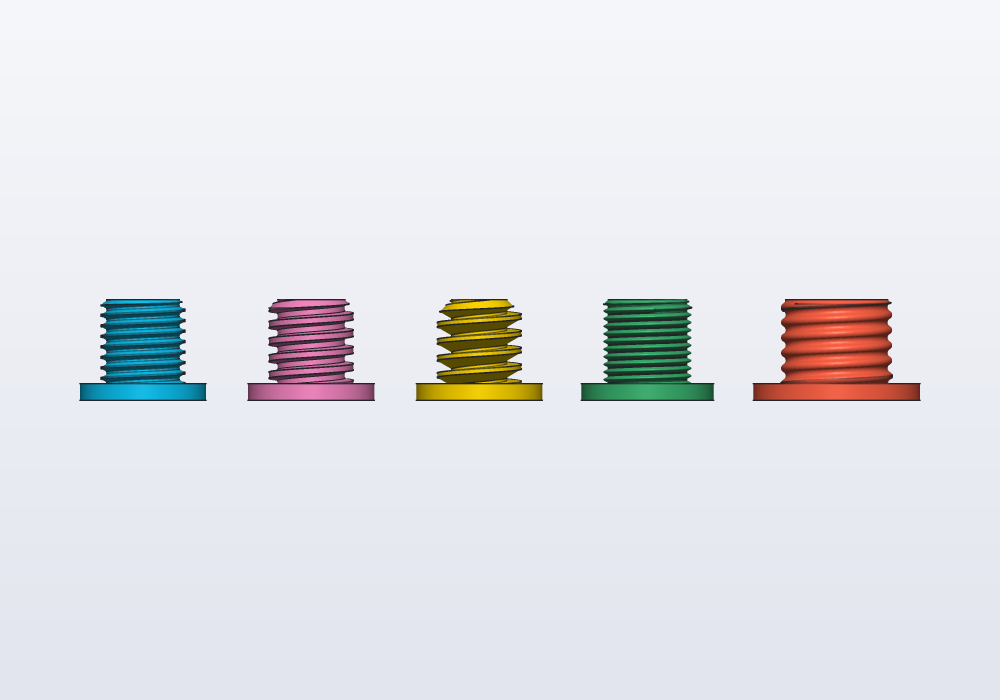
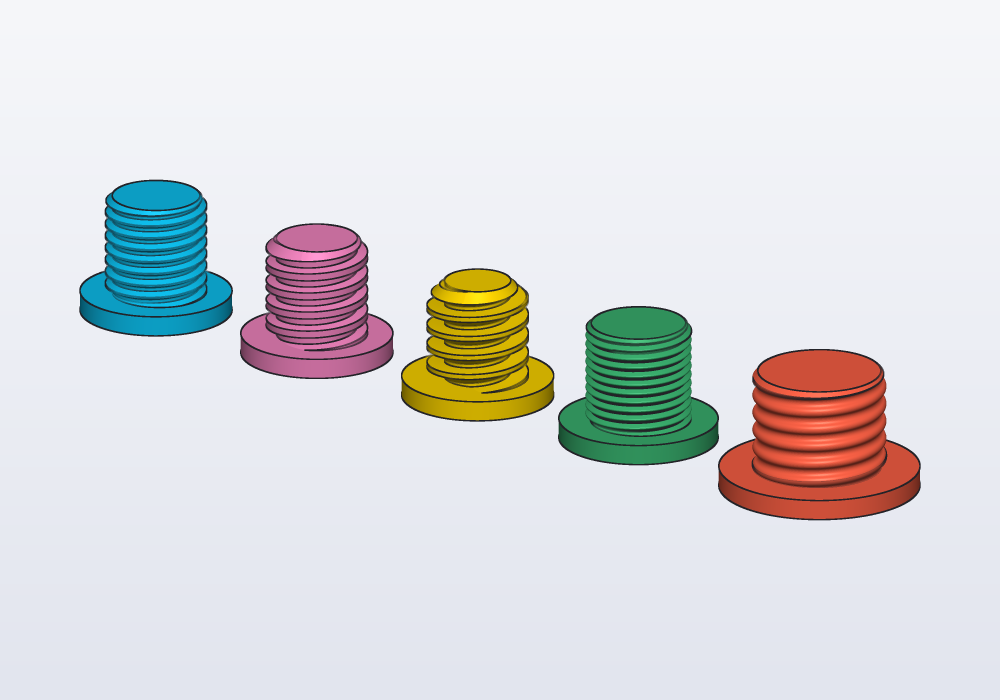
The guides' covers: a picture of each topic chosen among its examples, the threads seen at an angle

Changed region(s): [[0.062, 0.24, 0.93, 0.75]]

diff --git a/docs/GUIDES.md b/docs/GUIDES.md
@@ -4,85 +4,85 @@ One page for each topic: what it does, shown on examples, every parameter, the u
 
 ### [Constrained sketches](guides/sketches.md)
 
-[<img src="guides/img/sketches-cover.png" width="420" alt="Constrained sketches">](guides/sketches.md)
+[<img src="guides/img/sketches-flange.png" width="420" alt="Constrained sketches">](guides/sketches.md)
 
 A sketch is a flat outline drawn from points, lines, arcs, circles, ellipses, splines and ready-made shapes, held in place by constraints (rules such as "this line is level" or "these two points are 30 mm apart"), then extruded (pushed up into a solid), revolved (turned round an axis) or cut into a part. This guide covers `sketch()`, every constraint, construction geometry, degrees of freedom and their warning, reading the solved sketch back, sketches on the faces of a solid, where a sketch beats shapes added together, and the sketch bar of the application.
 
 ### [From profile to solid](guides/profiles.md)
 
-[<img src="guides/img/profiles-cover.png" width="420" alt="From profile to solid">](guides/profiles.md)
+[<img src="guides/img/profiles-extrude.png" width="420" alt="From profile to solid">](guides/profiles.md)
 
 A profile is a flat outline; a solid is made from it by extruding it (pushing it up into a block of the same outline), revolving it (turning it round an axis, as on a lathe) or adding and cutting it on a face of another solid. This guide covers the profile shapes (rectangles, circles, polygons, slots, teardrops, text, SVG and DXF drawings), how they combine (`+ - &`, offset, round), extruding them (taper, twist, shear, along X or Y, symmetric), revolving them, standing them up with `across`, adding or cutting them on a face of a solid, and pushing or sinking the faces themselves.
 
 ### [Paths, sweeps and lofts](guides/sweeps.md)
 
-[<img src="guides/img/sweeps-cover.png" width="420" alt="Paths, sweeps and lofts">](guides/sweeps.md)
+[<img src="guides/img/sweeps-paths.png" width="420" alt="Paths, sweeps and lofts">](guides/sweeps.md)
 
 Shapes that follow a curve or change along their length: paths (straight, bent, splines, helices, from a sketch, from a solid's edges, from two views), sweeping a profile along a path and deciding how it rolls on the way (`up:`, `guide:`, `twist:`, `frenet:`), and lofting between profiles.
 
 ### [Surfaces](guides/surfaces.md)
 
-[<img src="guides/img/surfaces-cover.png" width="420" alt="Surfaces">](guides/surfaces.md)
+[<img src="guides/img/surfaces-tube-halves.png" width="420" alt="Surfaces">](guides/surfaces.md)
 
 Open sheets with no inside: how to make one (an open curve swept along a path, a loft through paths), and what to do with it: split a solid along a curved cut, thicken it into a shell, sew several into a closed solid, push the pieces apart. Typical workflows, the limits, and the errors.
 
 ### [Planes, frames and placement](guides/planes.md)
 
-[<img src="guides/img/planes-cover.png" width="420" alt="Planes, frames and placement">](guides/planes.md)
+[<img src="guides/img/planes-place-on.png" width="420" alt="Planes, frames and placement">](guides/planes.md)
 
 Where things go. A plane is a flat surface without end, given by a point and the direction it faces; a frame is a place to build from, a point with its own three axes. This guide covers the three main planes XY, XZ and YZ (and which way each faces), planes of every other kind (through points, on a face, halfway between two faces, moved off another), frames to build on a face, placing parts on faces and next to each other, axes, sketching on a plane, and the planes shown in the 3D view with the menus that write them.
 
 ### [Selectors and features](guides/features.md)
 
-[<img src="guides/img/features-cover.png" width="420" alt="Selectors and features">](guides/features.md)
+[<img src="guides/img/features-four.png" width="420" alt="Selectors and features">](guides/features.md)
 
 Rounding, bevelling, hollowing and tapering a solid: `fillet`, `chamfer`, `shell` and `draft`, and the selectors that say which edges and faces they work on (`edges.parallel(Z)`, `faces.top`, `edges.between(…)`, `faces.from(tool)`). How to pick edges so that they stay the right ones when a parameter changes, in which order to apply the features, what their errors mean, and how to do the same with the mouse in the 3D view.
 
 ### [Patterns, textures and noise](guides/patterns.md)
 
-[<img src="guides/img/patterns-cover.png" width="420" alt="Patterns, textures and noise">](guides/patterns.md)
+[<img src="guides/img/patterns-four.png" width="420" alt="Patterns, textures and noise">](guides/patterns.md)
 
 Many copies of one thing: a row, a ring, a grid, a mirror image; layouts the plain patterns cannot make, written as loops; surfaces with a texture, ribbed or bumpy, from `noise`, `loopNoise` and `loft` through rings of points; how to keep them quick to evaluate, and when a pattern belongs in a library.
 
 ### [Threads](guides/threads.md)
 
-[<img src="guides/img/threads-cover.png" width="420" alt="Threads">](guides/threads.md)
+[<img src="guides/img/threads-profiles.png" width="420" alt="Threads">](guides/threads.md)
 
 A real helical thread on a shaft or in a hole: ISO metric, inch, trapezoidal and ACME, buttress, pipe threads, lamp bases, bottle necks. How to recognise one on a real object, every parameter, and how to print it.
 
 ### [Holes and hardware](guides/holes.md)
 
-[<img src="guides/img/holes-cover.png" width="420" alt="Holes and hardware">](guides/holes.md)
+[<img src="guides/img/holes-kinds.png" width="420" alt="Holes and hardware">](guides/holes.md)
 
 Holes for metric screws from M2 to M8, from the `hardware` library: clearance, tapping, heat-set insert, counterbore and countersink holes with `hole()`, nut traps, the screws, nuts and washers themselves, teardrop holes that print sideways, and the Hole entry of the 3D view's right-click menu.
 
 ### [Fits and printing](guides/fits.md)
 
-[<img src="guides/img/fits-cover.png" width="420" alt="Fits and printing">](guides/fits.md)
+[<img src="guides/img/fits-snap.png" width="420" alt="Fits and printing">](guides/fits.md)
 
 How much play to leave between parts that slide, press or turn together, printed or machined; how to test a fit in a `unittest` before printing; snap hooks and print-in-place hinges from the `snaps` and `hinges` libraries; and how to make a part print well: overhangs, thin walls, which way up it lies.
 
 ### [Gears](guides/gears.md)
 
-[<img src="guides/img/gears-cover.png" width="420" alt="Gears">](guides/gears.md)
+[<img src="guides/img/gears-hub.png" width="420" alt="Gears">](guides/gears.md)
 
 Spur gears and racks from the `gears` library: module, number of teeth and pressure angle, placing two gears so that they mesh, checking the mesh in the model, and printing gears that turn (backlash, the module for a printer, hubs, bores and set screws).
 
 ### [Enclosures and boxes](guides/enclosures.md)
 
-[<img src="guides/img/enclosures-cover.png" width="420" alt="Enclosures and boxes">](guides/enclosures.md)
+[<img src="guides/img/enclosures-pcb.png" width="420" alt="Enclosures and boxes">](guides/enclosures.md)
 
 Boxes, trays and cases with lids: the `enclosures` library (`roundedBox`, `tray`, `enclosure(…).base` and `.lid`) and every option of it, boxes hollowed with `shell()` or cut in two, screw bosses, ventilation slots and holes, and a worked example of a case for a circuit board.
 
 ### [Parameters, presets and checks](guides/parameters.md)
 
-[<img src="guides/img/parameters-cover.png" width="420" alt="Parameters, presets and checks">](guides/parameters.md)
+[<img src="guides/img/parameters-carlo.png" width="420" alt="Parameters, presets and checks">](guides/parameters.md)
 
 The sizes you may want to change, made parameters with `@param` (limits, steps, a list of choices) and grouped into named presets with `@preset`; units and the mistakes they catch, and the few they do not; design checks in `unittest` blocks with `assert`; measuring a model (its size, volume, weight, distances) and printing values with `writeln`; and changing parameters from the Parameters panel and the command line (`-D`, `--preset`).
 
 ### [Parts, export and drawings](guides/parts.md)
 
-[<img src="guides/img/parts-cover.png" width="420" alt="Parts, export and drawings">](guides/parts.md)
+[<img src="guides/img/parts-pieces.png" width="420" alt="Parts, export and drawings">](guides/parts.md)
 
 What becomes a separate object when a model is exported: `@part` and its options (colour, see-through, reference parts, names), `@parts` for the pieces of a cut, colours, the export formats (3MF, STL, zip, STEP, PNG) and what each holds, technical drawings with `@drawing`, and the Export menu of the application.
 

diff --git a/docs/guides/threads.md b/docs/guides/threads.md
@@ -2,15 +2,7 @@
 
 A real helical thread on a shaft or in a hole: ISO metric, inch, trapezoidal and ACME, buttress, pipe threads, lamp bases, bottle necks. How to recognise one on a real object, every parameter, and how to print it.
 
-<!-- render: threads-cover -->
-```d
-// a shaft with an M10 thread cut on its face
-@part("Sky Pop")
-Solid bolt() => cylinder(d: 10.mm, h: 20.mm)
-    .thread(faces.largest, "M10");
-```
-
-![A shaft with an M10 thread](img/threads-cover.png)
+![Five thread profiles side by side](img/threads-profiles.png)
 
 A *thread* is the spiral ridge that lets a screw turn into a nut. Its *pitch* is the distance from one ridge to the next, measured along the axis; the *crests* are the tops of the ridges. A male thread is outside a shaft (a bolt), a female one inside a hole (a nut).
 
@@ -37,7 +29,7 @@ The rule of thumb: water or air goes through it, a pipe thread (G, R, NPT); it h
 
 The teeth differ in shape (their *profile*: the outline of one tooth cut along the axis). Side by side, the same 20 mm shaft cut with five of them:
 
-<!-- render: threads-profiles --from front -->
+<!-- render: threads-profiles --from 1,-1.3,0.6 -->
 ```d
 // one shaft per family, each with the thread's own
 // profile

diff --git a/docs/guides/sketches.md b/docs/guides/sketches.md
@@ -2,25 +2,7 @@
 
 A sketch is a flat outline drawn from points, lines, arcs, circles, ellipses, splines and ready-made shapes, held in place by constraints (rules such as "this line is level" or "these two points are 30 mm apart"), then extruded (pushed up into a solid), revolved (turned round an axis) or cut into a part. This guide covers `sketch()`, every constraint, construction geometry, degrees of freedom and their warning, reading the solved sketch back, sketches on the faces of a solid, where a sketch beats shapes added together, and the sketch bar of the application.
 
-<!-- render: sketches-cover -->
-```d
-// a square: four lines, their sizes and relations
-// given as constraints, then made a solid
-Profile square()
-{
-    auto s = sketch();
-    auto l = s.rect(vec(0.mm, 0.mm), vec(20.mm, 20.mm));
-    s.fix(l[0].start);
-    s.length(l[0], 20.mm);
-    s.equal(l[0], l[1]);
-    return s.profile;
-}
-
-@part("Sky Pop")
-Solid tile() => square().extrude(3.mm);
-```
-
-![A square drawn as a sketch, made 3 mm thick](img/sketches-cover.png)
+![A flange drawn as a constrained sketch](img/sketches-flange.png)
 
 ## A first sketch
 

diff --git a/docs/guides/profiles.md b/docs/guides/profiles.md
@@ -2,16 +2,7 @@
 
 A profile is a flat outline; a solid is made from it by extruding it (pushing it up into a block of the same outline), revolving it (turning it round an axis, as on a lathe) or adding and cutting it on a face of another solid. This guide covers the profile shapes (rectangles, circles, polygons, slots, teardrops, text, SVG and DXF drawings), how they combine (`+ - &`, offset, round), extruding them (taper, twist, shear, along X or Y, symmetric), revolving them, standing them up with `across`, adding or cutting them on a face of a solid, and pushing or sinking the faces themselves.
 
-<!-- render: profiles-cover -->
-```d
-// a flat outline, a rectangle less a circle, pushed
-// up into a solid
-@part("Sky Pop")
-Solid plate() => (rect(30.mm, 20.mm) - circle(d: 8.mm))
-    .extrude(5.mm);
-```
-
-![A rectangle less a circle, pushed up into a plate](img/profiles-cover.png)
+![A cross extruded straight, tapered, twisted, sheared and both ways](img/profiles-extrude.png)
 
 ## The profile shapes
 

diff --git a/docs/guides/patterns.md b/docs/guides/patterns.md
@@ -2,16 +2,7 @@
 
 Many copies of one thing: a row, a ring, a grid, a mirror image; layouts the plain patterns cannot make, written as loops; surfaces with a texture, ribbed or bumpy, from `noise`, `loopNoise` and `loft` through rings of points; how to keep them quick to evaluate, and when a pattern belongs in a library.
 
-<!-- render: patterns-cover -->
-```d
-// one peg, copied eight times round a disc
-@part("Sky Pop")
-Solid wheel() => cylinder(d: 40.mm, h: 3.mm)
-    + cylinder(d: 5.mm, h: 6.mm).move(x: 15.mm)
-        .circularPattern(8, axis: Z);
-```
-
-![One peg copied eight times round a disc](img/patterns-cover.png)
+![A row, a ring, a grid and a mirror](img/patterns-four.png)
 
 A *pattern* is one shape repeated: `linearPattern` copies it along a straight line at an even step, `circularPattern` round an axis at even angles, `mirror` reflects it across a plane. A grid is two `linearPattern`s, one along each side. Copies that change from one to the next, or skip some places, are a loop (below).
 

diff --git a/docs/guides/sweeps.md b/docs/guides/sweeps.md
@@ -2,16 +2,7 @@
 
 Shapes that follow a curve or change along their length: paths (straight, bent, splines, helices, from a sketch, from a solid's edges, from two views), sweeping a profile along a path and deciding how it rolls on the way (`up:`, `guide:`, `twist:`, `frenet:`), and lofting between profiles.
 
-<!-- render: sweeps-cover -->
-```d
-// a circle carried along a bent path: a tube
-@part("Sky Pop")
-Solid tube() => circle(d: 4.mm)
-    .sweep(path([vec(0.mm, 0.mm, 0.mm), vec(0.mm, 0.mm, 20.mm),
-        vec(20.mm, 0.mm, 20.mm)], bend: 6.mm));
-```
-
-![A circle carried along a bent path: a tube](img/sweeps-cover.png)
+![Tubes along mitred, bent and spline paths, and a spring](img/sweeps-paths.png)
 
 A *profile* is a flat outline, such as a circle or a rectangle. A *sweep* moves a profile along a curve and keeps the solid it passes through: a wire, a tube, a handle. A *loft* joins several profiles placed one after the other with a smooth skin: a vase that starts round and ends square.
 

diff --git a/docs/guides/planes.md b/docs/guides/planes.md
@@ -2,17 +2,7 @@
 
 Where things go. A plane is a flat surface without end, given by a point and the direction it faces; a frame is a place to build from, a point with its own three axes. This guide covers the three main planes XY, XZ and YZ (and which way each faces), planes of every other kind (through points, on a face, halfway between two faces, moved off another), frames to build on a face, placing parts on faces and next to each other, axes, sketching on a plane, and the planes shown in the 3D view with the menus that write them.
 
-<!-- render: planes-cover -->
-```d
-// a peg built on XY, then placed on the block's top
-immutable block = box(30.mm, 20.mm, 8.mm);
-
-@part("Sky Pop")
-Solid part() => block + cylinder(d: 6.mm, h: 10.mm)
-    .placeOn(block.frame(faces.top));
-```
-
-![A peg placed on a block's top](img/planes-cover.png)
+![Carlo placed on a slope, square to it](img/planes-place-on.png)
 
 ## The main planes
 

diff --git a/docs/guides/holes.md b/docs/guides/holes.md
@@ -2,17 +2,7 @@
 
 Holes for metric screws from M2 to M8, from the `hardware` library: clearance, tapping, heat-set insert, counterbore and countersink holes with `hole()`, nut traps, the screws, nuts and washers themselves, teardrop holes that print sideways, and the Hole entry of the 3D view's right-click menu.
 
-<!-- render: holes-cover -->
-```d
-import hardware : M4, hole;
-
-// a plate with a countersunk hole for an M4 screw
-@part("Sky Pop")
-Solid plate() => box(30.mm, 20.mm, 6.mm)
-    - hole(M4, 6.mm, "countersink").move(z: 6.mm);
-```
-
-![A plate with a countersunk hole for an M4 screw](img/holes-cover.png)
+![The five kinds of hole, cut in half](img/holes-kinds.png)
 
 A printed part held by a screw needs a hole on each side of the joint: one the screw passes through, one it grips. The `hardware` library makes both, sized for each screw.
 

diff --git a/docs/guides/parameters.md b/docs/guides/parameters.md
@@ -2,17 +2,7 @@
 
 The sizes you may want to change, made parameters with `@param` (limits, steps, a list of choices) and grouped into named presets with `@preset`; units and the mistakes they catch, and the few they do not; design checks in `unittest` blocks with `assert`; measuring a model (its size, volume, weight, distances) and printing values with `writeln`; and changing parameters from the Parameters panel and the command line (`-D`, `--preset`).
 
-<!-- render: parameters-cover -->
-```d
-// a size given a name and limits: a slider to change it
-@param("Width", min: 20.mm, max: 80.mm)
-immutable width = 40.mm;
-
-@part("Sky Pop")
-Solid block() => box(width, 20.mm, 10.mm);
-```
-
-![A block whose width is a parameter](img/parameters-cover.png)
+![Carlo with its coffee preset](img/parameters-carlo.png)
 
 ## What makes a good parameter
 

diff --git a/docs/guides/surfaces.md b/docs/guides/surfaces.md
@@ -2,18 +2,7 @@
 
 Open sheets with no inside: how to make one (an open curve swept along a path, a loft through paths), and what to do with it: split a solid along a curved cut, thicken it into a shell, sew several into a closed solid, push the pieces apart. Typical workflows, the limits, and the errors.
 
-<!-- render: surfaces-cover -->
-```d
-// a wavy curve swept along a line: a thin sheet,
-// made 1 mm thick
-@part("Sky Pop")
-Solid sheet() => spline([vec(-15.mm, 0.mm), vec(-5.mm, 4.mm),
-        vec(5.mm, -4.mm), vec(15.mm, 0.mm)])
-    .sweep(path([vec(0.mm, 0.mm, 0.mm), vec(0.mm, 25.mm, 0.mm)]))
-    .thicken(1.mm);
-```
-
-![A wavy sheet, made 1 mm thick](img/surfaces-cover.png)
+![A bent tube split lengthwise by a surface, its halves pushed apart](img/surfaces-tube-halves.png)
 
 ## What a surface is
 

diff --git a/docs/guides/features.md b/docs/guides/features.md
@@ -2,15 +2,7 @@
 
 Rounding, bevelling, hollowing and tapering a solid: `fillet`, `chamfer`, `shell` and `draft`, and the selectors that say which edges and faces they work on (`edges.parallel(Z)`, `faces.top`, `edges.between(…)`, `faces.from(tool)`). How to pick edges so that they stay the right ones when a parameter changes, in which order to apply the features, what their errors mean, and how to do the same with the mouse in the 3D view.
 
-<!-- render: features-cover -->
-```d
-// a block with its upright edges rounded
-@part("Sky Pop")
-Solid block() => box(30.mm, 20.mm, 10.mm)
-    .fillet(edges.parallel(Z), r: 4.mm);
-```
-
-![A block with its upright edges rounded](img/features-cover.png)
+![Fillet, chamfer, shell and draft on four blocks](img/features-four.png)
 
 ## The four features
 

diff --git a/docs/guides/fits.md b/docs/guides/fits.md
@@ -2,19 +2,7 @@
 
 How much play to leave between parts that slide, press or turn together, printed or machined; how to test a fit in a `unittest` before printing; snap hooks and print-in-place hinges from the `snaps` and `hinges` libraries; and how to make a part print well: overhangs, thin walls, which way up it lies.
 
-<!-- render: fits-cover -->
-```d
-// a pin and the hole it slides in: 0.2 mm of play
-// each side
-@part("Sky Pop")
-Solid block() => box(24.mm, 24.mm, 10.mm)
-    - cylinder(d: 8.4.mm, h: 12.mm).move(z: -1.mm);
-
-@part("Pink Pop")
-Solid pin() => cylinder(d: 8.mm, h: 16.mm).move(x: 25.mm);
-```
-
-![A pin and the hole it slides in](img/fits-cover.png)
+![A snap hook through a lid, cut in half](img/fits-snap.png)
 
 ## Play, clearance, interference
 
